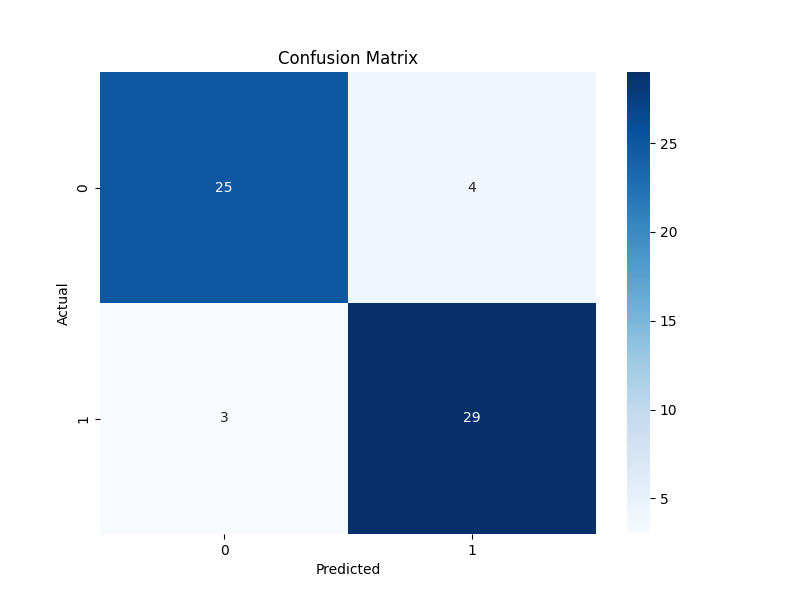
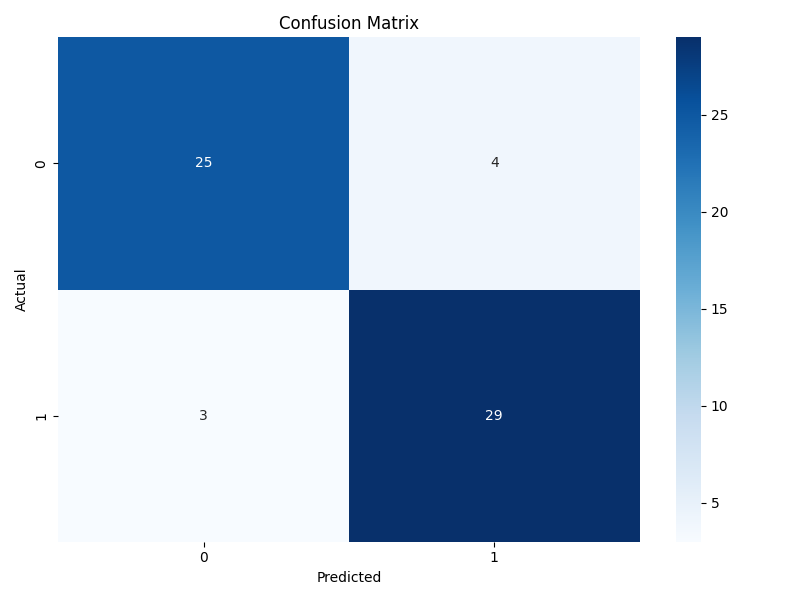
Added the roc-curve

diff --git a/src/train.py b/src/train.py
@@ -4,7 +4,14 @@ import numpy as np
 import pandas as pd
 import matplotlib.pyplot as plt
 import seaborn as sns
-from sklearn.metrics import accuracy_score, roc_auc_score,confusion_matrix, mean_absolute_error, mean_squared_error
+from sklearn.metrics import (
+    accuracy_score,
+    roc_auc_score,
+    confusion_matrix,
+    mean_absolute_error,
+    mean_squared_error,
+    roc_curve,             
+)
 from sklearn.pipeline import Pipeline
 from sklearn.model_selection import RandomizedSearchCV
 from src.data import load_data, save_data, split_data
@@ -39,16 +46,17 @@ def run_training(raw_path, target_col, numeric_features, classification_features
 
     df = load_data(raw_path)
     X_train, X_val, X_test, y_train, y_val, y_test = split_data(df, target_col)
+
     preprocessor = build_transformer(numeric_features, classification_features)
     save_transformer(preprocessor, 'models/transformer.joblib')
+
     model = build_model(problem_type)
     pipe = Pipeline([
         ('processor', preprocessor),
         ('model', model)
     ])
 
-
-    # RandomizedSearchCV here
+    # RandomizedSearchCV could go here later
     pipe.fit(X_train, y_train)
 
     # Save the model
@@ -57,7 +65,7 @@ def run_training(raw_path, target_col, numeric_features, classification_features
     # Evaluate
     if problem_type == 'classification':
         y_pred = pipe.predict(X_test)
-        y_proba = pipe.predict_proba(X_test)
+        y_proba = pipe.predict_proba(X_test)          # shape: (n_samples, n_classes)
         metrics = evaluate_classification(y_test, y_pred, y_proba)
     else:
         y_pred = pipe.predict(X_test)
@@ -68,16 +76,33 @@ def run_training(raw_path, target_col, numeric_features, classification_features
         json.dump(metrics, f, indent=4)
     print("Metrics:", metrics)
 
-    # Plot confusion matrix for classification
+    # Plot confusion matrix + ROC curve for classification
     if problem_type == 'classification':
+        # Confusion Matrix
         cm = np.array(metrics['confusion_matrix'])
         plt.figure(figsize=(8, 6))
         sns.heatmap(cm, annot=True, fmt='d', cmap='Blues')
         plt.xlabel('Predicted')
         plt.ylabel('Actual')
         plt.title('Confusion Matrix')
+        plt.tight_layout()
         plt.savefig('reports/figures/confusion_matrix.png')
         plt.close()
+
+        # ROC Curve
+        # y_proba was defined above in the classification block
+        fpr, tpr, _ = roc_curve(y_test, y_proba[:, 1])   # positive class probs
+        plt.figure(figsize=(8, 6))
+        plt.plot(fpr, tpr, label=f"ROC AUC = {metrics['roc_auc']:.3f}")
+        plt.plot([0, 1], [0, 1], 'r--', alpha=0.6, label="Random")
+        plt.xlabel("False Positive Rate")
+        plt.ylabel("True Positive Rate")
+        plt.title("ROC Curve")
+        plt.legend(loc="lower right")
+        plt.tight_layout()
+        plt.savefig('reports/figures/roc_curve.png')
+        plt.close()
+
     else:
         plt.figure(figsize=(8, 6))
         plt.scatter(y_test, y_pred, alpha=0.5)
@@ -85,12 +110,13 @@ def run_training(raw_path, target_col, numeric_features, classification_features
         plt.xlabel('Actual')
         plt.ylabel('Predicted')
         plt.title('Actual vs Predicted')
+        plt.tight_layout()
         plt.savefig('reports/figures/actual_vs_predicted.png')
         plt.close()
 
 
 if __name__ == "__main__":
-    raw_path = 'data/processed/heart.csv'
+    raw_path = 'data/processed/heart.csv'   
     target_col = 'target'
     numeric_features = ['age', 'trestbps', 'chol', 'thalach', 'oldpeak']
     classification_features = ['sex', 'cp', 'fbs', 'restecg', 'exang', 'slope', 'ca', 'thal']
